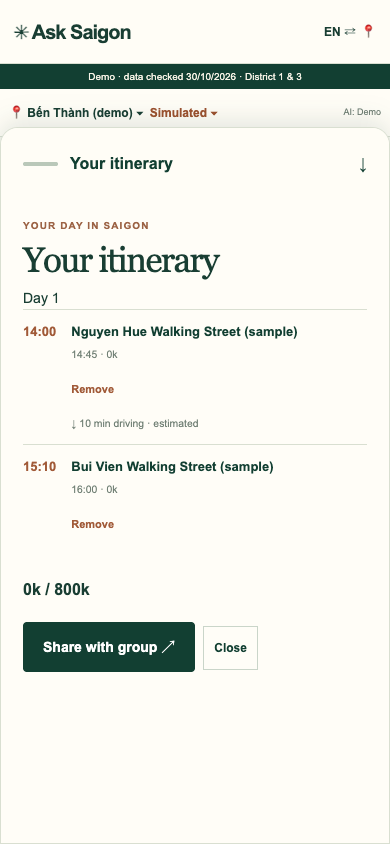
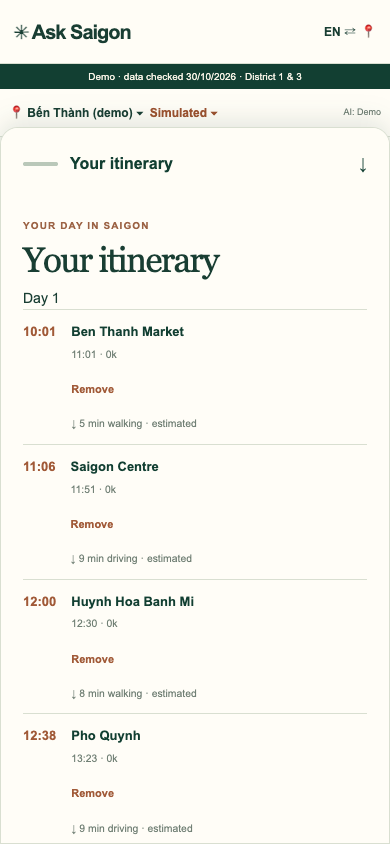
docs: refresh screenshots

diff --git a/README.md b/README.md
@@ -6,6 +6,8 @@
 
 [Live demo](https://ask-saigon.vercel.app) · [Try the demo script](docs/demo-script.md) · [Architecture](docs/architecture.md)
 
+**Current iPhone 13 screenshots**
+
 | Start exploring | TikTok and a place | Price check | A day plan |
 | --- | --- | --- | --- |
 | ![Ask Saigon landing page](docs/images/home.png) | ![TikTok result and place card](docs/images/tiktok.png) | ![Cyclo price reference card](docs/images/price.png) | ![Itinerary sheet](docs/images/itinerary.png) |
